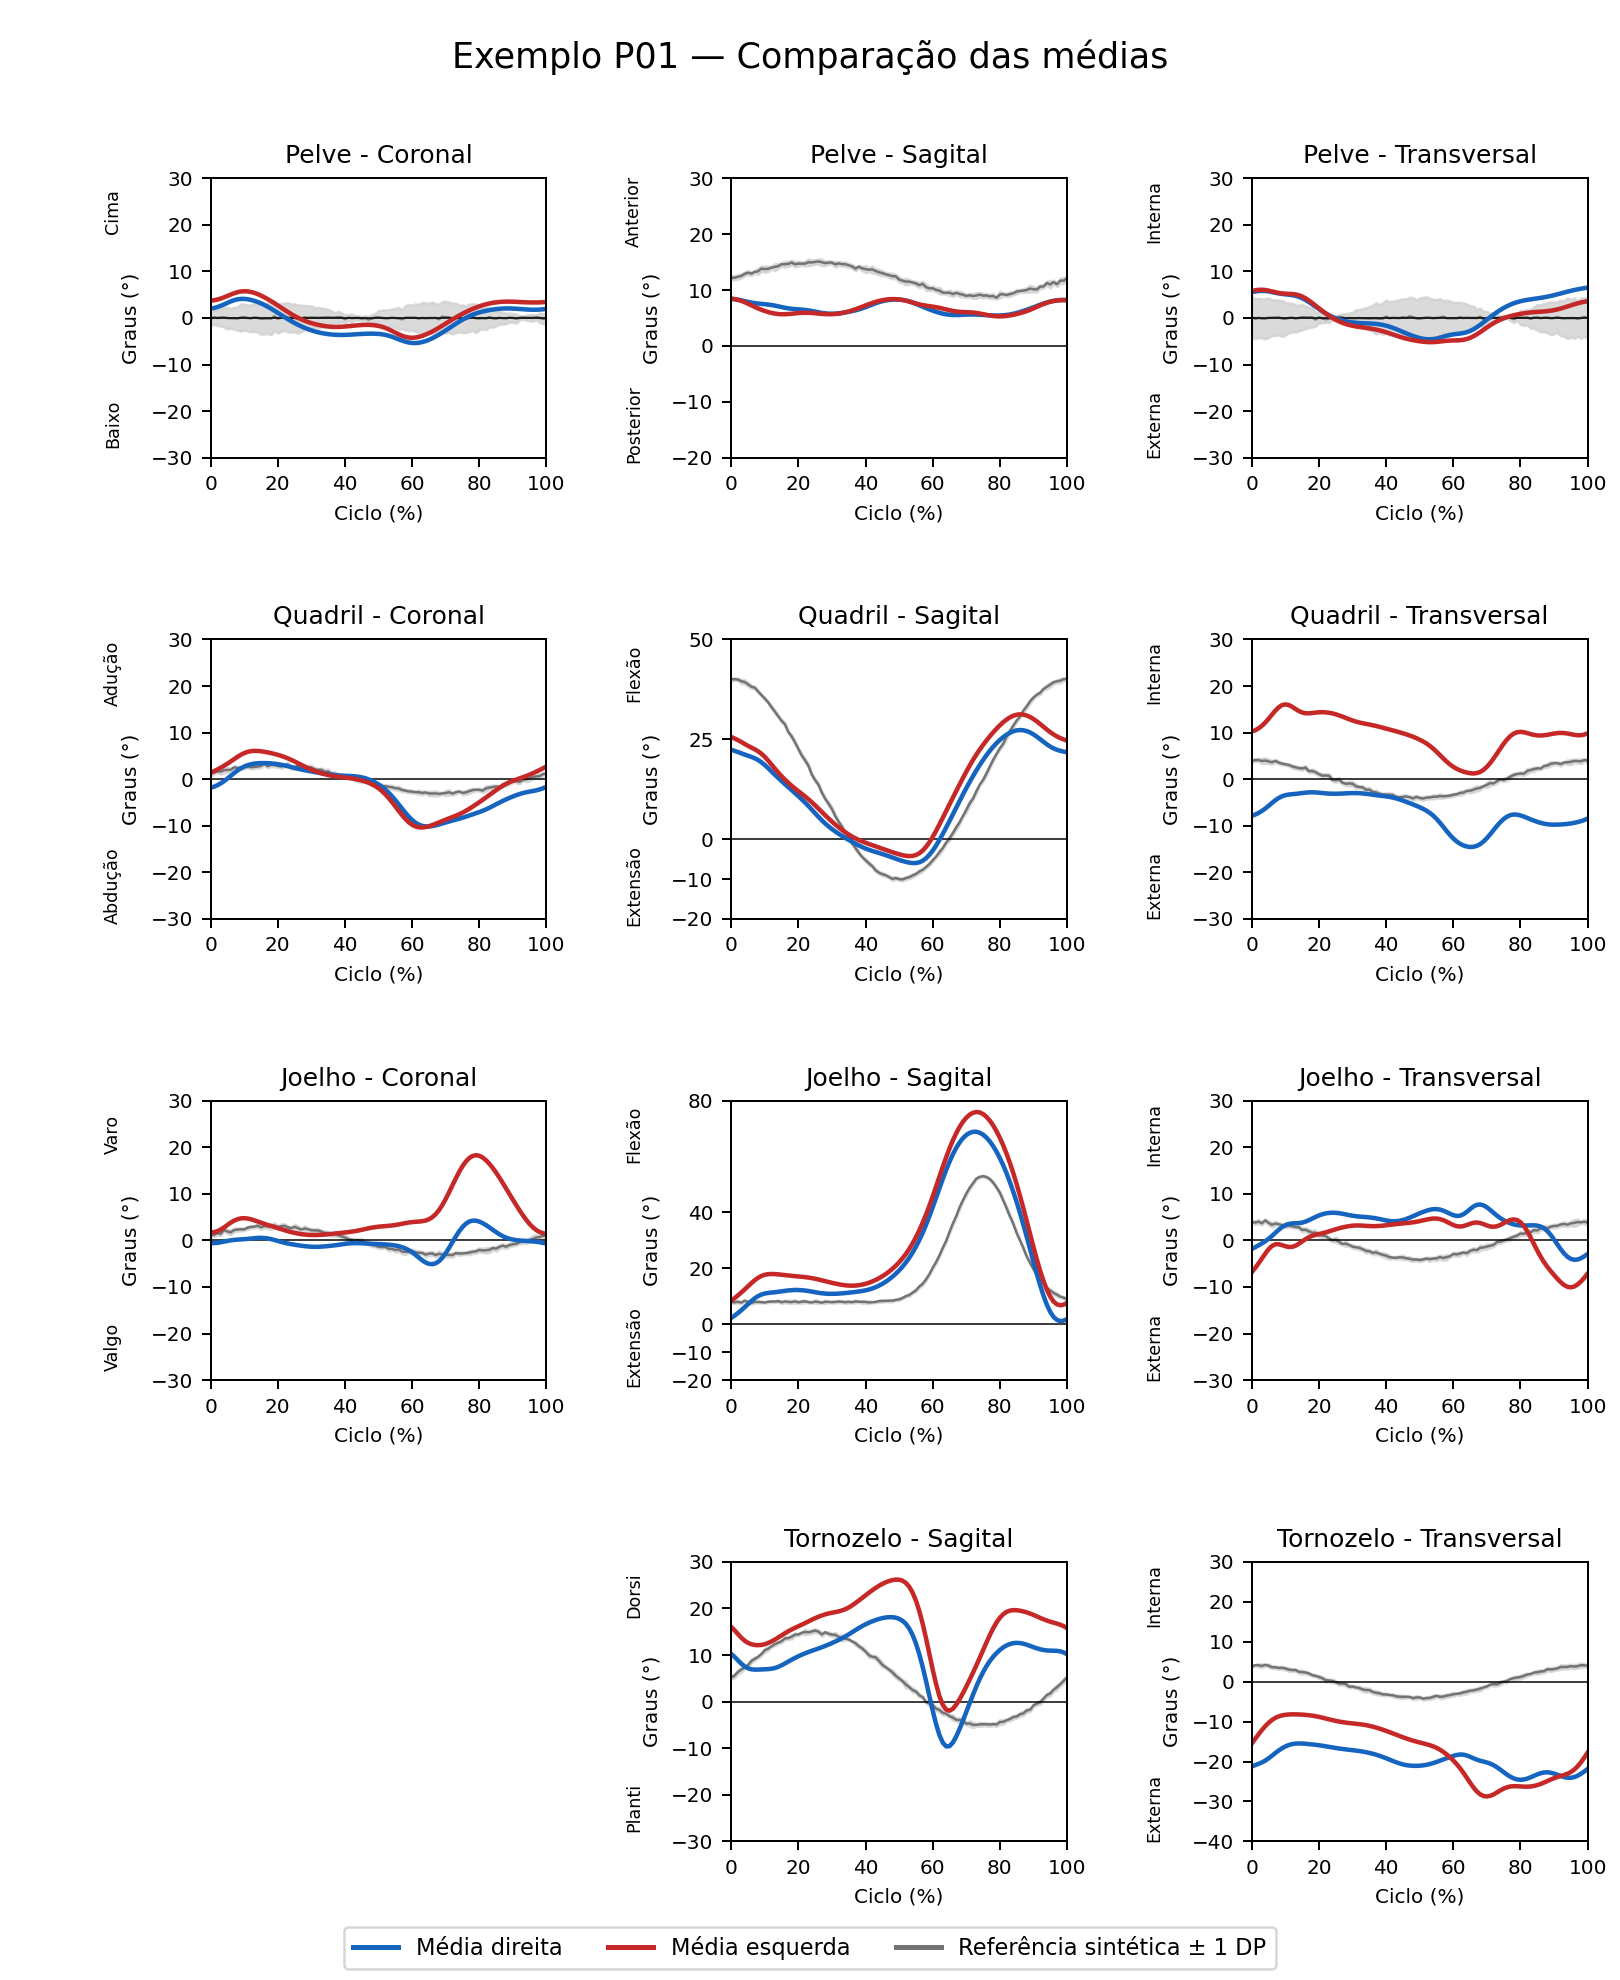
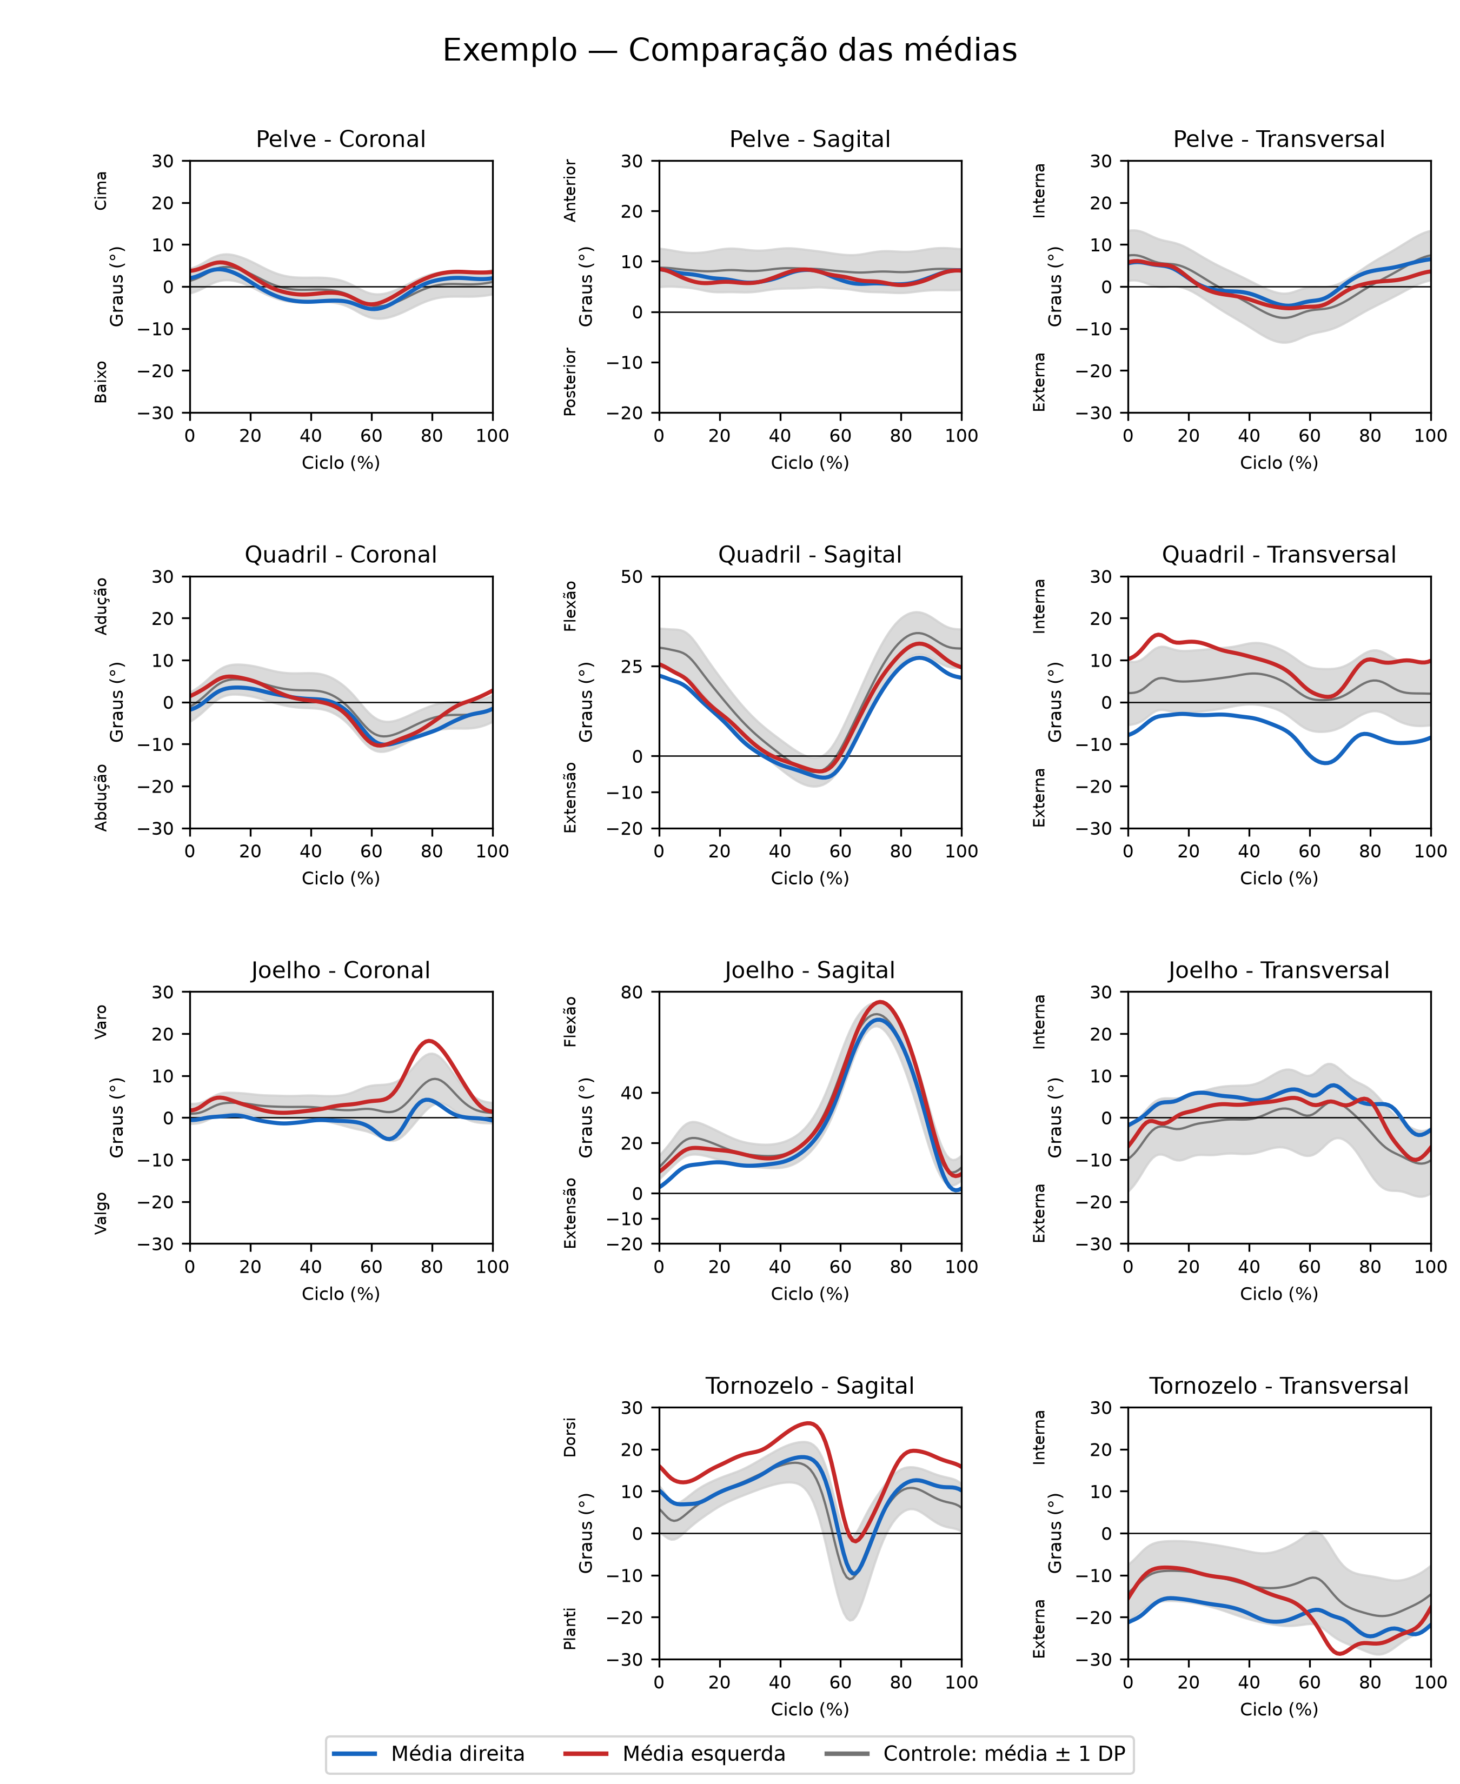
Use supplied comparison figure with real reference and clarify demo differences

diff --git a/README.md b/README.md
@@ -2,9 +2,9 @@
 
 Python tools for reading normalized gait exports, combining trials, reviewing individual cycles and producing right/left kinematic figures with a comparison reference. The repository also retains the supplied MATLAB extraction script for method traceability.
 
-![P01 mean gait curves compared with a synthetic demonstration reference](docs/gait_comparison.png)
+![P01 mean gait curves compared with the reference used in the local workflow](docs/gait_comparison.png)
 
-Blue: right mean (4 cycles). Red: left mean (3 cycles). Grey: synthetic reference ± 1 SD, included only to demonstrate the comparison display.
+Blue: right mean (4 cycles). Red: left mean (3 cycles). Grey: reference mean ± 1 SD. This figure was supplied from the local workflow using the real comparison reference. The reference data are not included in this repository; the executable public example uses a synthetic demonstration reference and therefore produces a different grey curve and band.
 
 ## Run the included example
 
@@ -48,4 +48,4 @@ python -m unittest discover -s tests -v
 
 The tests cover column mapping, cycle exclusion, means and sample standard deviations. During portfolio preparation, the command-line example generated figures and arrays, and the Streamlit interface passed an initialization check. File-upload and mouse interactions were not tested.
 
-The evaluation example uses real recordings identified as P01, with names and local file paths removed. The comparison reference remains synthetic; original reference arrays are not distributed. P01 demonstrates the application and is not a normative control group. The demonstration reference has no normative or clinical meaning. For local data, adapt `config.json` and check that column, axis and sign conventions match your exports.
+The evaluation example uses real recordings identified as P01, with names and local file paths removed. The executable example uses a synthetic comparison reference; the README figure shows the real reference from the local workflow. Original reference arrays are not distributed. P01 demonstrates the application and is not a normative control group. The demonstration reference has no normative or clinical meaning. For local data, adapt `config.json` and check that column, axis and sign conventions match your exports.
